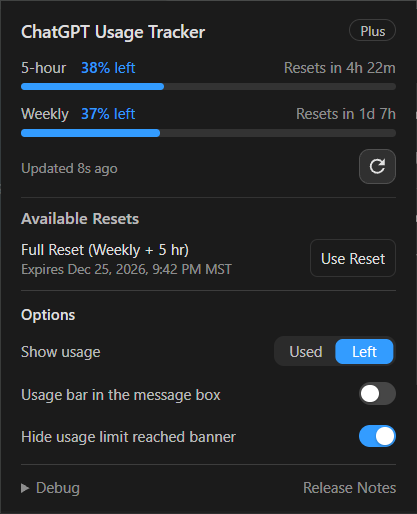
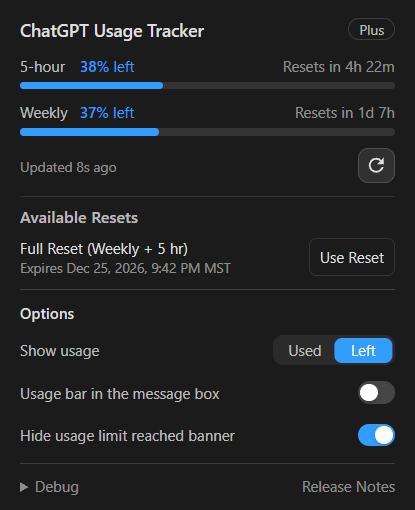
Remove the popup screenshot border
Crop to the popup interior so the uneven right edge is gone.

diff --git a/README.md b/README.md
@@ -4,7 +4,7 @@ See your ChatGPT usage limits, credits and available manual resets without leavi
 
 <img width="1000" alt="Work mode showing 44% of the 5-hour limit and 60% of the weekly limit used, with an available reset below the sidebar usage bars" src="docs/screenshot-used.webp" />
 <img width="1000" alt="Work mode showing 56% of the 5-hour limit and 40% of the weekly limit left, with an available reset below the sidebar usage bars" src="docs/screenshot-left.webp" />
-<img width="417" alt="The extension's toolbar popup showing the 5-hour and weekly usage bars, an available reset, and display options" src="docs/screenshot-popup.webp" />
+<img width="415" alt="The extension's toolbar popup showing the 5-hour and weekly usage bars, an available reset, and display options" src="docs/screenshot-popup.webp" />
 
 - A usage bar in the message box while you're in Work or Codex mode: your 5-hour usage, an arrow marking
   your weekly usage, and when the 5-hour limit resets (you can turn it off under "Options" in the
